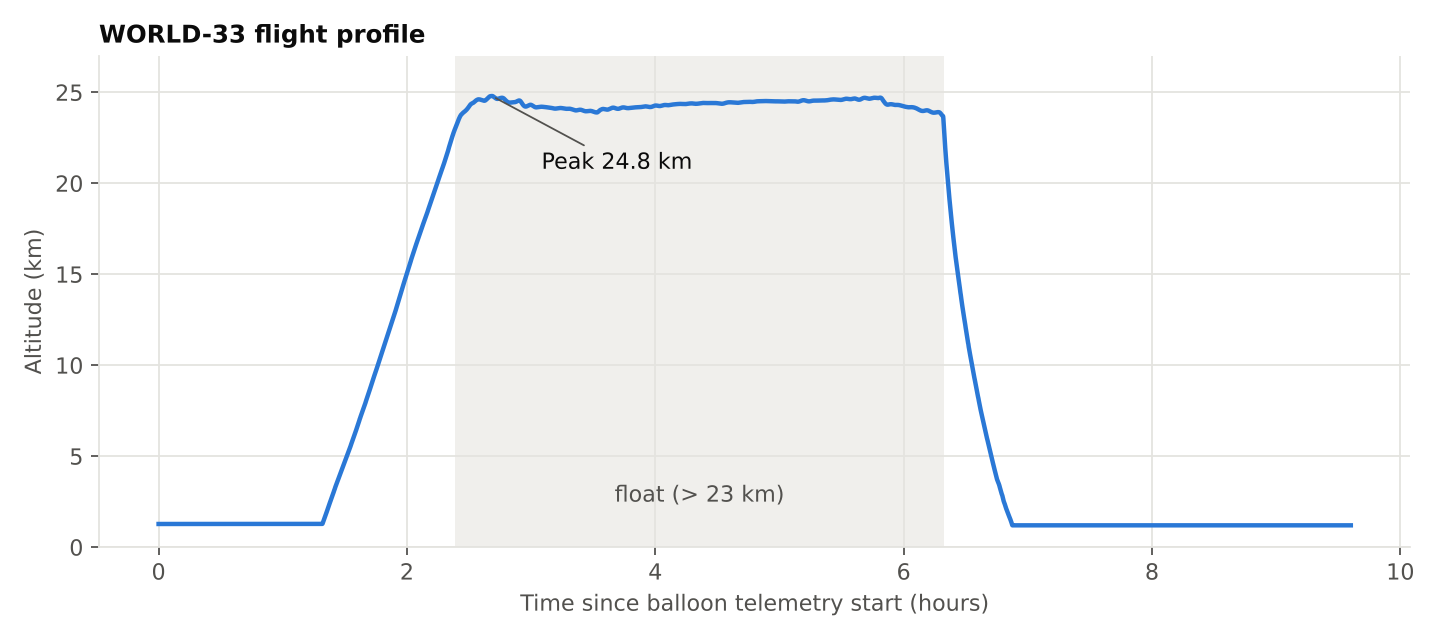
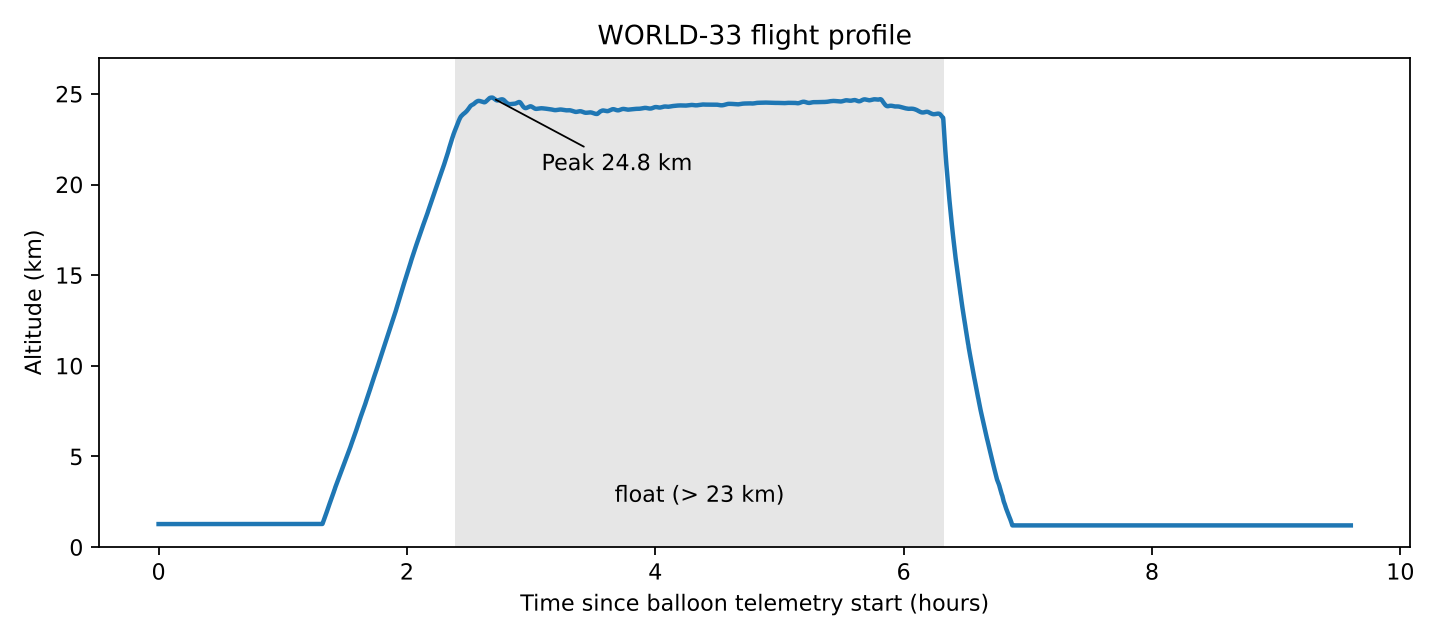
Restyle charts to matplotlib defaults

diff --git a/scripts/make_charts.py b/scripts/make_charts.py
@@ -17,35 +17,15 @@ DATA = ROOT / "results" / "data" / "world33_flight_data.csv"
 OUT = ROOT / "results" / "charts"
 OUT.mkdir(parents=True, exist_ok=True)
 
-BLUE = "#2a78d6"
-INK = "#0b0b0b"
-INK_2 = "#52514e"
-GRID = "#e4e3df"
-BAND = "#f0efec"
+BLUE = "C0"          # matplotlib's default first color
+BAND = "0.9"         # light gray for the float band
 
 LAUNCH_SITE_ALT_M = 1400   # anything above this is "off the ground"
 FLOAT_ALT_M = 23000        # float altitude threshold used for shading
 
-plt.rcParams.update({
-    "font.family": "DejaVu Sans",
-    "font.size": 10,
-    "axes.edgecolor": GRID,
-    "axes.labelcolor": INK_2,
-    "axes.titlecolor": INK,
-    "axes.titlesize": 11,
-    "axes.titleweight": "bold",
-    "axes.titlelocation": "left",
-    "xtick.color": INK_2,
-    "ytick.color": INK_2,
-    "axes.grid": True,
-    "grid.color": GRID,
-    "grid.linewidth": 0.8,
-    "axes.spines.top": False,
-    "axes.spines.right": False,
-    "figure.facecolor": "white",
-    "axes.facecolor": "white",
-    "savefig.dpi": 160,
-})
+matplotlib.rcdefaults()
+plt.rcParams["font.family"] = "DejaVu Sans"
+plt.rcParams["savefig.dpi"] = 160
 
 d = pd.read_csv(DATA)
 # One telemetry packet came through as all zeros (altitude/lat/lon = 0); drop it for plotting.
@@ -69,8 +49,8 @@ ax.plot(d.hours, d.altitude_km, color=BLUE, lw=2)
 peak = d.loc[d.altitude_m.idxmax()]
 ax.annotate(f"Peak {peak.altitude_km:.1f} km",
             xy=(peak.hours, peak.altitude_km), xytext=(peak.hours + 0.4, peak.altitude_km - 4),
-            color=INK, arrowprops=dict(arrowstyle="-", color=INK_2, lw=0.8))
-ax.text((float_start + float_end) / 2, 2.5, "float (> 23 km)", ha="center", color=INK_2)
+            arrowprops=dict(arrowstyle="-", lw=0.8))
+ax.text((float_start + float_end) / 2, 2.5, "float (> 23 km)", ha="center")
 ax.set_title("WORLD-33 flight profile")
 ax.set_xlabel("Time since balloon telemetry start (hours)")
 ax.set_ylabel("Altitude (km)")
@@ -88,7 +68,7 @@ panels = [
     ("co2_ppm", "CO2 (ppm)"),
     ("no2_ppm", "NO2 (ppm)"),
 ]
-fig, axes = plt.subplots(3, 2, figsize=(10, 8), sharex=True)
+fig, axes = plt.subplots(3, 2, figsize=(10, 8.5), sharex=True)
 for ax, (col, title) in zip(axes.flat, panels):
     shade_float(ax)
     ax.scatter(d.hours, d[col], s=2, color=BLUE, lw=0)
@@ -96,7 +76,7 @@ for ax, (col, title) in zip(axes.flat, panels):
 for ax in axes[-1]:
     ax.set_xlabel("Hours since telemetry start")
 fig.suptitle("Sensor readings across the flight (gray band = float above 23 km)",
-             x=0.01, ha="left", color=INK, fontsize=12, fontweight="bold")
+             fontsize=12)
 fig.tight_layout()
 fig.savefig(OUT / "sensors_over_time.png")
 plt.close(fig)
